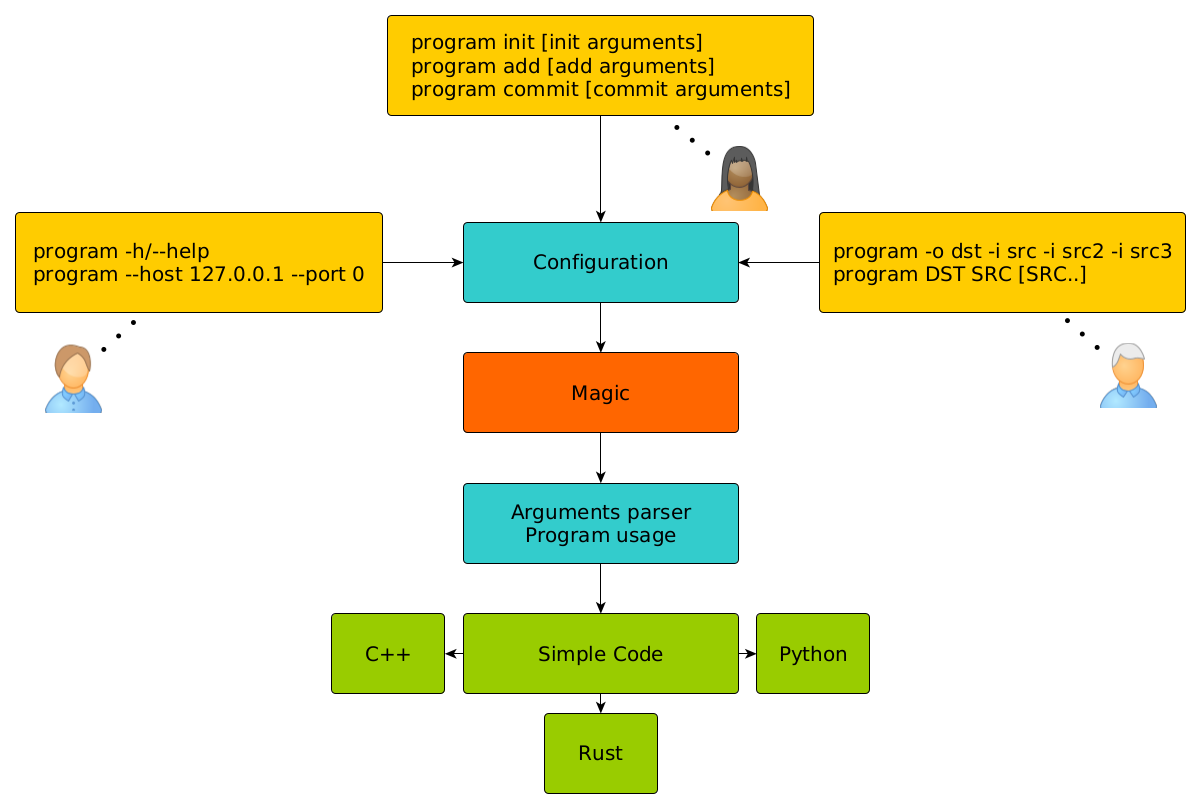
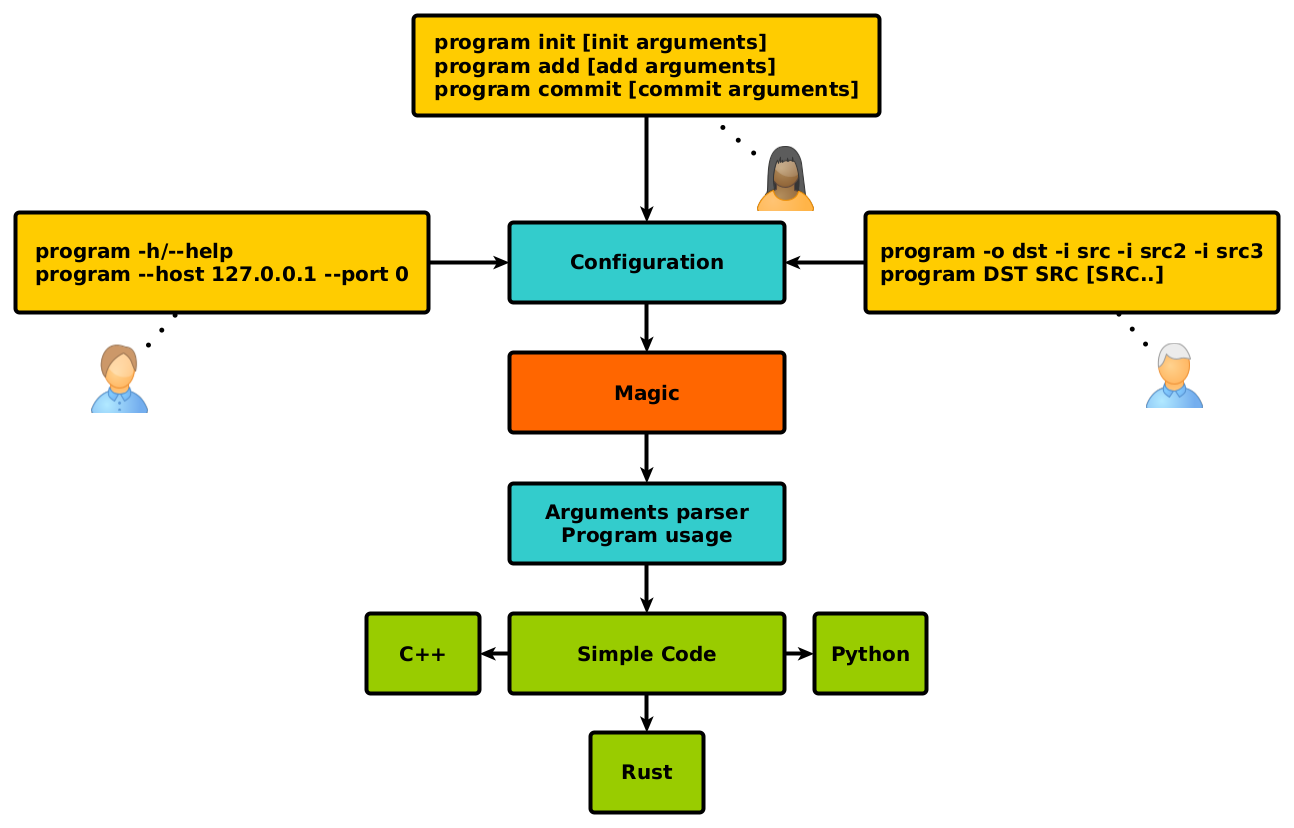
Update documentation
Update imtro image, to look better as preview

Changed region(s): [[0.0, 0.0, 1.0, 0.9889]]

diff --git a/README.rst b/README.rst
@@ -93,7 +93,7 @@ Let's start from simple one.
         optional bool who_am_i = 3;                     // Show custom user message and exit, it is transformed into --who-am-i long argument
         optional uint p = 4 [default = 10];             // Integer param with default value,  it is transformed into -p short argument, even if not specified it will return with value 10
         optional uint32 param = 5 [default = 10];       // Integer param with default value,  it is transformed into --param short argument, even if not specified it will return with value 10
-        optional string UPCASE = 6 [default = "Test"];  // Integer param with default value,  it is transformed into --upcase long argument, even if not specified it will return with value "Test"
+        optional string UPCASE = 6 [default = "Test"];  // String param with default value,  it is transformed into --upcase long argument, even if not specified it will return with value "Test"
     }//protoargs
 
 ..
@@ -223,7 +223,7 @@ Positional argument may be defined only using both **protoargs** and **protoargs
 Usage
 =====
 
-First of all, you are interested in one single file in this project, python script located in bin_ directory, called *protoargs.py*.
+First of all, you are interested in script file in this project, python script located in bin_ directory, called *protoargs.py*.
 
 Now, when **protoargs** supports **python** arguments parser generation, protoargs script uses "dogfooding" model - uses self generated arguments parser for itself (see *protoargs.proto* inside bin_ directory).
 
@@ -233,28 +233,27 @@ So here is usage you will get with *-h/--help*.
 
 .. code:: bash
 
-    usage: python protoargs.py [-h] -i src -o dst [--loglevel loglevel] [--cpp] [--py]
-
-    Protoargs program generates command line arguments parsers, using proto file
-    as configuration.
-
+    usage: protoargs [-h] -i src -o dst [--loglevel loglevel] [--cpp] [--py] [--rust]
+    
+    Protoargs program generates command line arguments parsers, using proto file as configuration.
+    
     optional arguments:
       -h, --help           show this help message and exit
       -i src               Path to proto file with protoargs configuration
                            {REQUIRED,type:string,default:""}
       -o dst               Path to output directory, where parser will be placed.
                            {REQUIRED,type:string,default:""}
-      --loglevel loglevel  Log level, default = INFO, possible values
-                           [ERROR|WARNING|INFO|DEBUG]
+      --loglevel loglevel  Log level, possible values [ERROR|WARNING|INFO|DEBUG]
                            {OPTIONAL,type:string,default:"INFO"}
-      --cpp                Generate c++11 arguments parser (Note: you need
-                           generate files with protoc compiler additionally, so
-                           that parser will work). Parser will have name of proto
-                           file name, e.g. [protoargs.proto]->[protoargs.pa.cc]
+      --cpp                Generate c++11 arguments parser (Note: you need generate files with protoc
+                           compiler additionally, so that parser will work). Parser will have name of
+                           proto file name, e.g. [protoargs.proto]->[protoargs.pa.cc]
                            {OPTIONAL,type:bool,default:"false"}
-      --py                 Generate python arguments parser. Parser will have name
-                           of proto file name, e.g.
-                           [protoargs.proto]->[protoargs_pa.py]
+      --py                 Generate python arguments parser. Parser will have name of proto file name,
+                           e.g. [protoargs.proto]->[protoargs_pa.py]
+                           {OPTIONAL,type:bool,default:"false"}
+      --rust               Generate rust arguments parser. Parser will have name of proto file name,
+                           e.g. [protoargs.proto]->[protoargs_pa.rs]
                            {OPTIONAL,type:bool,default:"false"}
 
 ..
